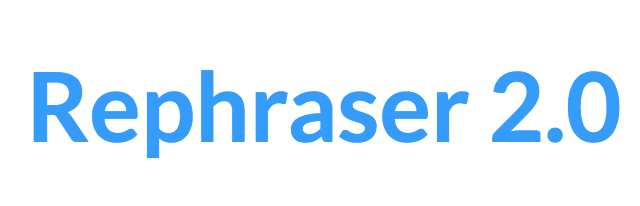
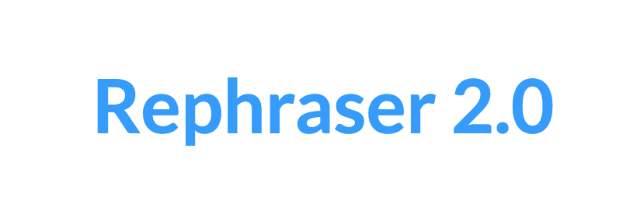
adjust navbar behavior, add verb-replacer, etc (#19)
* fix typo

* adjust image size

* resize images

* adjust text alignment

* self-collapsing navbar

* add project: verb replacer

Changed region(s): [[0.0312, 0.3204, 0.9688, 0.7864]]

diff --git a/css/style.css b/css/style.css
@@ -2,10 +2,6 @@ body {
     font-family: "Source Sans Pro","Helvetica Neue",Helvetica,Arial,sans-serif;
 }
 
-p {
-  text-align: justify;
-}
-
 .text-vertical-center {
     display: table-cell;
     text-align: center;
@@ -24,6 +20,10 @@ p {
     padding: 0;
     font-size: 4em;
     font-weight: 700;
+}
+
+.text-justify {
+  text-align: justify;
 }
 
 /* Custom Button Styles */
@@ -78,8 +78,82 @@ hr.small {
     margin: 5px 5px 0 0;
 }
 
-.navbar-inverse .navbar-nav>li>a {
-    font-size: 15px;
+.navbar-custom {
+    margin-bottom: 0;
+    border-bottom: 1px solid rgba(255,255,255,.3);
+    /*font-family: Montserrat,"Helvetica Neue",Helvetica,Arial,sans-serif;*/
+    background-color: #000;
+}
+
+.navbar-custom .navbar-brand {
+    font-weight: 700;
+}
+
+.navbar-custom .navbar-brand:focus {
+    outline: 0;
+}
+
+.navbar-custom .navbar-brand .navbar-toggle {
+    padding: 4px 6px;
+    font-size: 16px;
+    color: #fff;
+}
+
+.navbar-custom .navbar-brand .navbar-toggle:focus,
+.navbar-custom .navbar-brand .navbar-toggle:active {
+    outline: 0;
+}
+
+.navbar-custom a {
+    color: #fff;
+}
+
+.navbar-custom .nav li a {
+    -webkit-transition: background .3s ease-in-out;
+    -moz-transition: background .3s ease-in-out;
+    transition: background .3s ease-in-out;
+}
+
+.navbar-custom .nav li a:hover {
+    outline: 0;
+    color: rgba(255,255,255,.8);
+    background-color: transparent;
+}
+
+.navbar-custom .nav li a:focus,
+.navbar-custom .nav li a:active {
+    outline: 0;
+    background-color: transparent;
+}
+
+.navbar-custom .nav li.active {
+    outline: 0;
+}
+
+.navbar-custom .nav li.active a {
+    background-color: rgba(255,255,255,.3);
+}
+
+.navbar-custom .nav li.active a:hover {
+    color: #fff;
+}
+
+@media(min-width:768px) {
+    .navbar-custom {
+        padding: 20px 0;
+        border-bottom: 0;
+        letter-spacing: 1px;
+        background: 0 0;
+        -webkit-transition: background .5s ease-in-out,padding .5s ease-in-out;
+        -moz-transition: background .5s ease-in-out,padding .5s ease-in-out;
+        transition: background .5s ease-in-out,padding .5s ease-in-out;
+    }
+
+    .navbar-custom.top-nav-collapse {
+        padding: 0;
+        border-bottom: 1px solid rgba(255,255,255,.3);
+        background: rgba(0, 0, 0, 0.9);
+    }
 }
 
 /* Header */

diff --git a/js/index.js b/js/index.js
@@ -1,8 +1,17 @@
 
+// jQuery to collapse the navbar on scroll
+$(window).scroll(function() {
+    if ($(".navbar").offset().top > 50) {
+        $(".navbar-fixed-top").addClass("top-nav-collapse");
+    } else {
+        $(".navbar-fixed-top").removeClass("top-nav-collapse");
+    }
+});
+
 $(function() {
   var n = 3;
   var rand = Math.floor((Math.random() * n) + 1);
-  $('header .background').css('background-image', 'linear-gradient(rgba(0,0,0,.3),rgba(0,0,0,.3),rgba(0,0,0,.1)),url(/img/bg/' + rand + '.jpg)');
+  $('header .background').css('background-image', 'linear-gradient(rgba(0,0,0,.5),rgba(0,0,0,.3),rgba(0,0,0,.1)),url(/img/bg/' + rand + '.jpg)');
 });
 
 $(function() {
@@ -67,7 +76,7 @@ $(function() {
                           </a>
                           <img src="` + proj.img + `">
                         </div>`;
-        proj_block +=  `<div class="project content description">
+        proj_block +=  `<div class="project content description text-justify">
                           <div class="description">
                             <p>` + proj.descrip_zh + `</p>
                             <p>` + proj.descrip_en + `</p>

diff --git a/js/projects.js b/js/projects.js
@@ -39,8 +39,17 @@ var projects = [
         title: 'Linggle Translation',
         img: 'img/trans.png',
         link: 'http://ironman.nlpweb.org:5566/',
-        descrip_zh: 'Linggle Translation 運用了語言學上的理論來處理巨量文本資料，提升了統計式翻譯的一致性',
+        descrip_zh: 'Linggle Translation 運用了語言學上的理論來處理巨量文本資料，提升了統計式翻譯的一致性。',
         descrip_en: 'Linggle Translation incoporates Synchronous Pattern Grammar (SPG) and improve the consistency of Statistical Machine Translation System (SMT).',
+        label: '',
+        label_link: '#'
+    },
+    {
+        title: 'Verb Replacer',
+        img: 'img/verbreplacer.png',
+        link: 'http://ironman.nlpweb.org:7000/',
+        descrip_zh: 'Verb Replacer 產生相近的動詞，並針對用詞精準評分，找出句子中潛在的誤用動詞。',
+        descrip_en: 'A demo system that automatically learns to generate and evaluate verb alternatives for potentially misused verbs in a given sentence.',
         label: '',
         label_link: '#'
     },

diff --git a/index.html b/index.html
@@ -35,7 +35,7 @@
 <body>
 
   <!-- Navigation -->
-  <nav class="navbar navbar-inverse navbar-fixed-top" role="navigation">
+  <nav class="navbar navbar-custom navbar-fixed-top" role="navigation">
   <div class="container">
     <!-- Brand and toggle get grouped for better mobile display -->
     <div class="navbar-header">
@@ -76,8 +76,8 @@
       <div class="background"></div>
 
       <div class="content text-vertical-center">
-          <h1>清華大學自然語言處理實驗室</h1>
-          <h3>NTHU Natural Language Processing Lab.</h3>
+          <h1>自然語言處理實驗室</h1>
+          <h3>Natural Language Processing Lab.</h3>
           <br>
           <a href="#about" class="btn btn-dark btn-lg"> More </a>
       </div>

diff --git a/js/members.js b/js/members.js
@@ -163,7 +163,7 @@ var members = {
             name: '簡紹安',
             alias: 'Shao-An',
             research: '自然語言搜尋介面',
-            img: 'img/shaoan.png',
+            img: 'img/shaoan.jpg',
             color: 'yellow',
             intro: '',
             link: '',

diff --git a/js/research.js b/js/research.js
@@ -12,7 +12,7 @@ var research = {
         },
         {
             name_zh: '機器翻譯',
-            name_en: 'Mazhne Translation',
+            name_en: 'Machine Translation',
             fa: 'fa-globe'
         },
     ],
